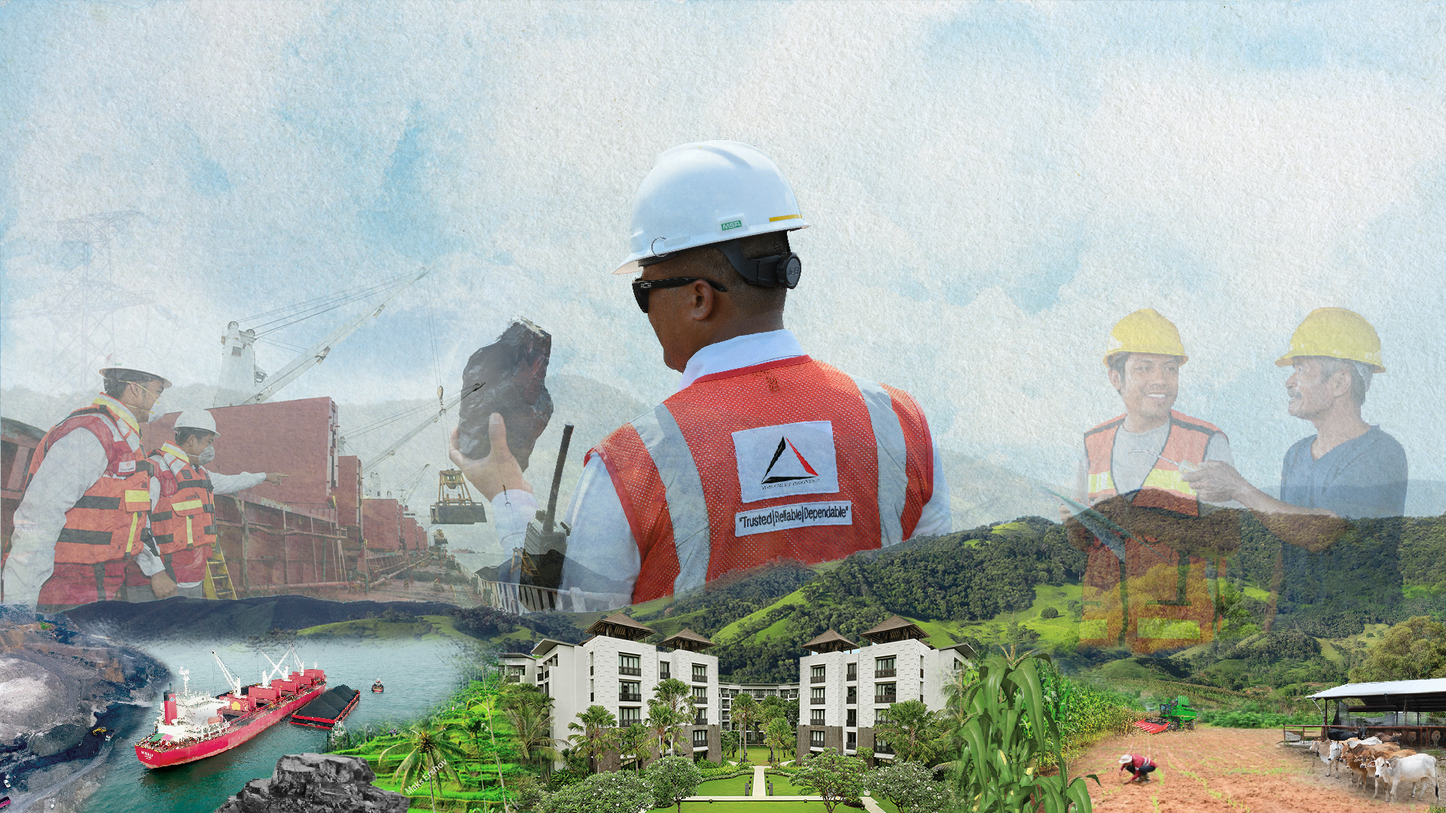
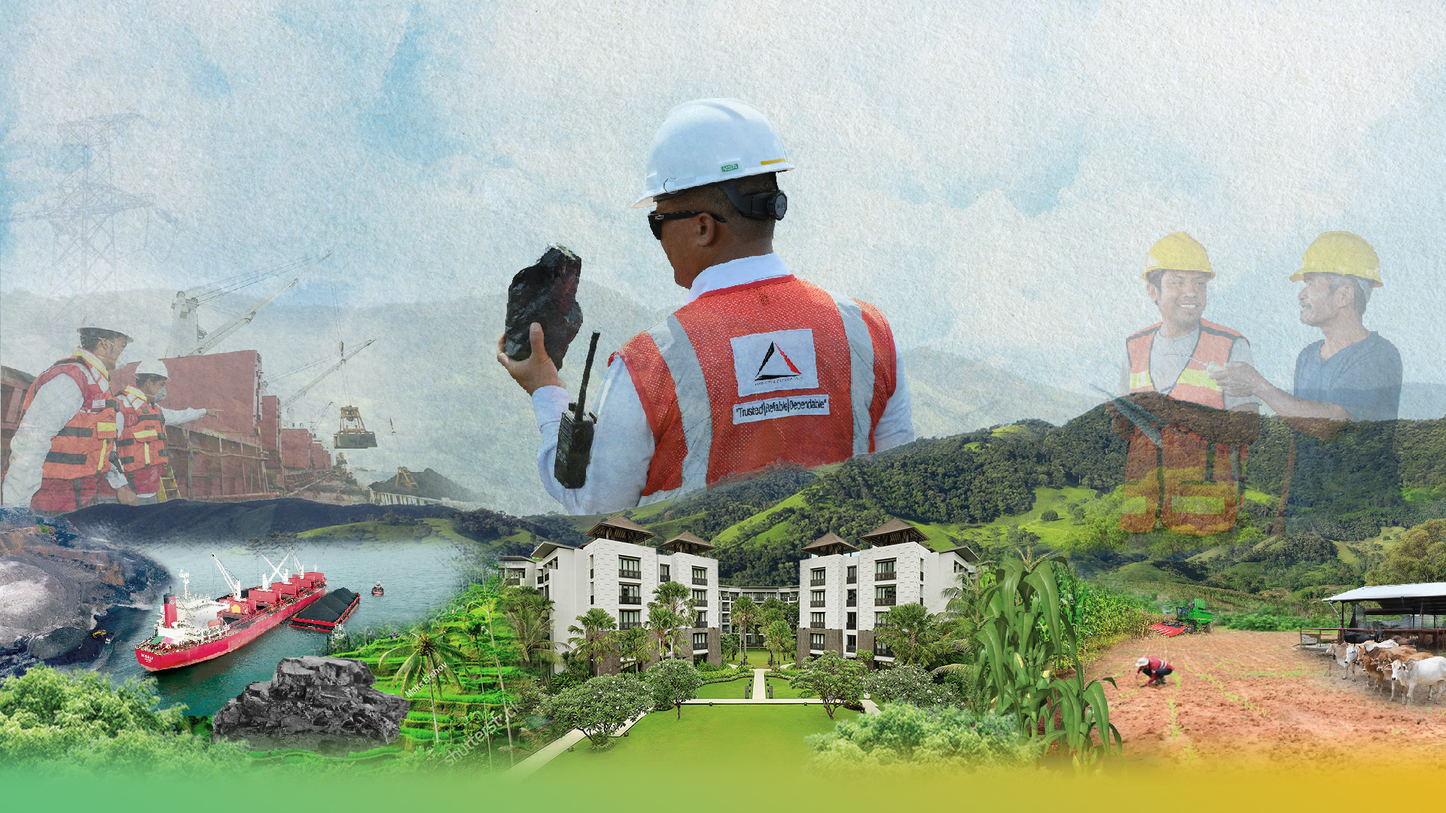
new image for preview

diff --git a/src/newscontent.js b/src/newscontent.js
@@ -221,6 +221,56 @@ var content=[
 
         Lanjutnya, dengan adanya bantuan ini artinya masyarakat Kota Balikpapan harus berani untuk memutus mata rantai penyebaran Covid-19.`        
     },
+    {
+        id:'1029fwfnd847',
+        title:'Yayasan Life After Mine Gandeng PT Multi Harapan Utama Gelar Vaksin Gotong Royong',
+        imageUrl:'News - 12',
+        date:"2021-12-02",
+        newsUrl:'/',
+        newsContent:`Yayasan Life After Mine (YLAM) melanjutkan rangkaian inisiatif untuk mendukung kesejahteraan masyarakat di sekitar lahan paska tambang.
+
+        YLAM kali ini memfasilitasi bantuan berupa program Vaksin Gotong Royong bagi 1,000 warga beserta pembagian sembako di Kabupaten Kutai Kertanegara (Kukar), Kalimantan Timur (Kaltim). Inisiatif tersebut dilakukan oleh YLAM bersama salah satu mitranya PT Multi Harapan Utama (MHU). 
+        
+        Program Vaksin Gotong Royong tersebut menggunakan vaksin jenis Sinopharm yang dilaksanakan di Gedung Beladiri Stadion Aji Imbut, Tenggarong, Kukar pada tanggal 22-24 November 2021. Program ini didukung oleh Dinas Kesehatan Kukar beserta instansi lainnya yang turut mendukung berlangsungnya acara.
+        
+        Kabupaten Kukar memiliki populasi penduduk terpadat kedua di provinsi Kaltim, namun tingkat vaksinasi dosis 1 (57%) dan dosis 2 (41%) masih lebih rendah dibawah rata-rata dosis 1 (67%) dan dosis 2 (46%) di Propinsi Kaltim dan Nasional.
+        
+        Andrew Hidayat, selaku Pembina Yayasan Life After Mine menyampaikan, hasil analisa tim kami menunjukan tingkat vaksinasi masyarakat di area kerja MHU masih dapat ditingkatkan. Oleh karena itu, kami merasa perlu adanya inisiatif kerjasama yang melibatkan MHU dan pemerintah daerah dalam mendorong penetrasi vaksinasi untuk menekan angka penularan COVID-19.
+        
+        Andrew percaya vaksinasi dan social distancing adalah satu – satunya cara untuk menahan resiko penyebaran kasus baru COVID-19 yang nantinya dapat mendukung kemajuan ekonomi dan pembangunan di setiap daerah.
+        
+        Terdapat tiga kecamatan di Kabupaten Kukar yang merupakan area kerja MHU dengan jumlah penduduk terpadat yaitu Tenggarong, Loa Janan dan Loa Kulu yang mencatatkan tingkat vaksinasi yang cukup tinggi namun masih dapat terus dioptimalkan untuk mencapai herd immunity.
+        
+        “Hari ini, kami memulai dengan 1,000 dosis vaksin untuk warga Kukar. Melihat antusiasme yang ditunjukkan masyarakat atas program, kita mungkin akan melakukan program lanjutan. Kami menyadari untuk meningkatkan capaian tingkat vaksin dari 57% ke 70% memerlukan pendekatan yang khusus kepada masyarakat, ” ungkap Adri Martowardojo, Pengurus Yayasan Life After Mine.
+        
+        COO MHU, Faiz Firdaus menyampaikan, program vaksin kali ini berhasil menjangkau masyarakat yang lebih luas walaupun tingkat vaksinasi Kukar saat ini sudah mempunyai capaian yang baik. Pembagian sembako yang kita adakan bersamaan dengan vaksin dilakukan untuk dapat memastikan kecukupan gizi masyarakat terutama pada periode paska vaksin.
+        
+        Sekertaris Daerah Kabupaten Kutai Kartanegara, Drs. H. Sunggono, MM. juga menyampaikan, menyambut baik bantuan vaksin dan sembako yang diusung oleh Yayasan Life After Mine bersama MHU.
+        
+        Pihaknya berharap dengan bantuan ini dapat membantu pencegahan penyebaran COVID-19 secara menyeluruh, guna mengembalikan kembali perkembangan ekonomi di daerah.`        
+    },
+
+    {
+        id:'1029fwfnd847',
+        title:'PT Mitra Properti Sentosa, Anak Usaha MMS Land, Menyasar Segmen Pasar Berbeda di Labuan Bajo',
+        imageUrl:'News - 12',
+        date:"2021-12-27",
+        newsUrl:'/',
+        newsContent:`
+        Labuan Bajo dikenal sebagai daerah destinasi wisata populer di Indonesia karena keindahan pulau-pulaunya dan satwa Komodo yang langka. Selain pariwisata, Labuan Bajo juga menjadi venue penyelenggara kegiatan konferensi pada level nasional maupun internasional. Hal ini menjadi daya tarik bagi wisatawan lokal maupun mancanegara untuk berkunjung ke Labuan Bajo.
+        
+        PT Mitra Properti Sentosa (MPS), anak usaha MMS Land, meilhat kesempatan tersebut mempunyai keyakinan tinggi terhadap potensi sektor hotel di Labuan Bajo untuk sektor pariwisata, terutama untuk segmen MICE (Meetings, Incentive, Convention and Exhibition) yang belum banyak dilirik. Hal ini selaras dengan Pemerintah Indonesia yang menjadikan Labuan Bajo sebagai salah satu dari 5 Destinasi Super Prioritas Indonesia.
+        
+        Sebagai bentuk nyata dari keyakinan tersebut, MPS berencana melakukan pembangunan hotel bintang 4 dengan konsep business hotel. MPS telah mengadakan seremoni peletakan batu pertama di rencana lokasi hotel yang berjarak ±1-km dari Bandar Udara Internasional Komodo pada 27 November 2021.
+        
+        Pembangunan hotel ini akan memperkuat ekosistem pariwisata di Labuan Bajo dan mendorong pertumbuhan ekonomi lokal. Selain itu, terdapat potensi terjadi spillover knowledge kepada masyarakat sekitar untuk meningkatkan learning curve masyarakat lokal.
+        
+        Hotel ini rencananya akan memiliki 5 lantai dengan lebih dari 100 kamar yang dilengkapi fasilitas-fasilitas utama seperti meeting room dan ballroom, dining bar, rooftop bar serta pusat kebugaran lengkap untuk mendukung kebutuhan wisatawan.
+        
+        Andre Biantoro, selaku COO MMS Land menyampaikan “Kami sangat yakin dengan potensi wisata pada segmen MICE yang ada di Labuan Bajo. Kami berencana membangun sebuah hotel bintang 4 dengan konsep business hotel dan bekerja sama dengan operator hotel internasional untuk memberikan pelayanan dan akomodasi dengan standar internasional”.
+        
+        Bupati Manggarai Barat, Edistasius Endi menyampaikan, “Dengan banyaknya konferensi yang akan dilaksanakan di Labuan Bajo seperti side event KTT G20 yang akan diselenggarakan tahun 2022 nanti, Labuan Bajo membutuhkan lebih banyak lagi hotel bertaraf internasional. Kami sangat mendukung rencana MPS untuk mendirikan hotel ini untuk kemajuan daerah. Kami himbau MPS untuk dapat segera menyelesaikan pembangunan hotel”.`        
+    },
     
     
     

diff --git a/src/components/Introduction.js b/src/components/Introduction.js
@@ -5,7 +5,7 @@ function Introduction(props){
 
 
     const introText=[
-        'MMS Group Indonesia merupakan perusahaan energi berkelanjutan yang mempunyai 3 pilar bisnis utama yaitu MMS Resources, MMS Land dan MMS Solution dengan lokasi yang tersebar di Indonesia. Salah satu portofolio MMS Group adalah PT Multi Harapan Utama, sebuah perusahaan pemegang lisensi PKP2B di Kalimantan Timur yang berada dibawah MMS Resources',
+        'MMS Group Indonesia (MMSGI) merupakan perusahaan energi berkelanjutan yang mempunyai 3 pilar bisnis utama yaitu MMS Resources, MMS Land dan MMS Solution dengan lokasi yang tersebar di Indonesia. Salah satu portofolio MMS Group adalah PT Multi Harapan Utama, sebuah perusahaan pemegang lisensi PKP2B di Kalimantan Timur yang berada dibawah MMS Resources',
         // 'Today, our group have grown into one of the most reputable and reliable coal suppliers for both national and international markets.'
     ]
 
@@ -15,7 +15,7 @@ function Introduction(props){
                 <div class="col-lg-7 pe-lg-5 mb-5 mb-lg-0 d-flex align-items-center" >
                     <div>
 
-						<h2 class="font-weight-bold text-color-dark line-height-1 mb-0 ">The <span className="text-primary">Unicorn </span>of Indonesia's natural resources</h2>
+						<h2 class="font-weight-bold text-color-dark line-height-1 mb-0 ">The <span className="text-primary">Unicorn </span>of Indonesia's Natural Resources Sector</h2>
     
                         {/* <Typewriter
                             options={{
@@ -27,7 +27,7 @@ function Introduction(props){
 					<div class="custom-divider divider divider-primary divider-small my-3">
 						<hr class="my-0"/>
 					</div>
-					<p class="text-4 mb-4" >{introText[0]}</p>
+					<p class="text-4 mb-lg-4" >{introText[0]}</p>
 					{/* <p class="pb-1 mb-4">{introText[1]}</p> */}
 					<div class="d-flex align-items-start align-items-sm-center flex-column flex-sm-row">
 						<Link to='/about' class="btn btn-primary custom-btn-border-radius font-weight-bold text-3 px-5 btn-py-3 me-sm-2 mb-3 mb-sm-0 ">Tentang Kami</Link>

diff --git a/src/components/HomeSliderSlick.js b/src/components/HomeSliderSlick.js
@@ -22,7 +22,7 @@ function HomeSliderSlick({sliderContent}){
             <Slider {...setting}>
             {sliderContent.map((content)=>
             <>
-                    <div class="overlay overlay-show overlay-op-6 pt-5" style={{backgroundImage:`url(${content.imageUrl})`,backgroundSize:'cover',backgroundPosition:'center',height:'calc(100vh - 100px', boxSizing:'border-box'}} key={content.Textline1}>
+                    <div class="overlay overlay-show overlay-op-7 pt-5" style={{backgroundImage:`url(${content.imageUrl})`,backgroundSize:'cover',backgroundPosition:'center',height:'calc(100vh - 100px', boxSizing:'border-box'}} key={content.Textline1}>
                         <div class="container container-xl-custom pt-5 h-100">
 						    <div class="row align-items-center pt-5 h-100">
 							    <div class="col">

diff --git a/src/components/NewsCard.js b/src/components/NewsCard.js
@@ -16,7 +16,7 @@ function NewsCard(props){
 
             <div class="post-content">
 
-                <h2 class="font-weight-semibold text-4 line-height-6 mt-3 mb-1"><Link to={`/news/${props.id}`}>{props.title.substring(0,65)}{props.title.length>60 && '...'}</Link></h2>
+                <h2 class="font-weight-semibold text-4 line-height-6 mt-3 mb-1"><Link to={`/news/${props.id}`}>{props.title.substring(0,70)}{props.title.length>70 && '...'}</Link></h2>
                 <p className="">{props.newsContent.substring(0,180)}...</p>
 
                 {/* <div class="post-meta">
